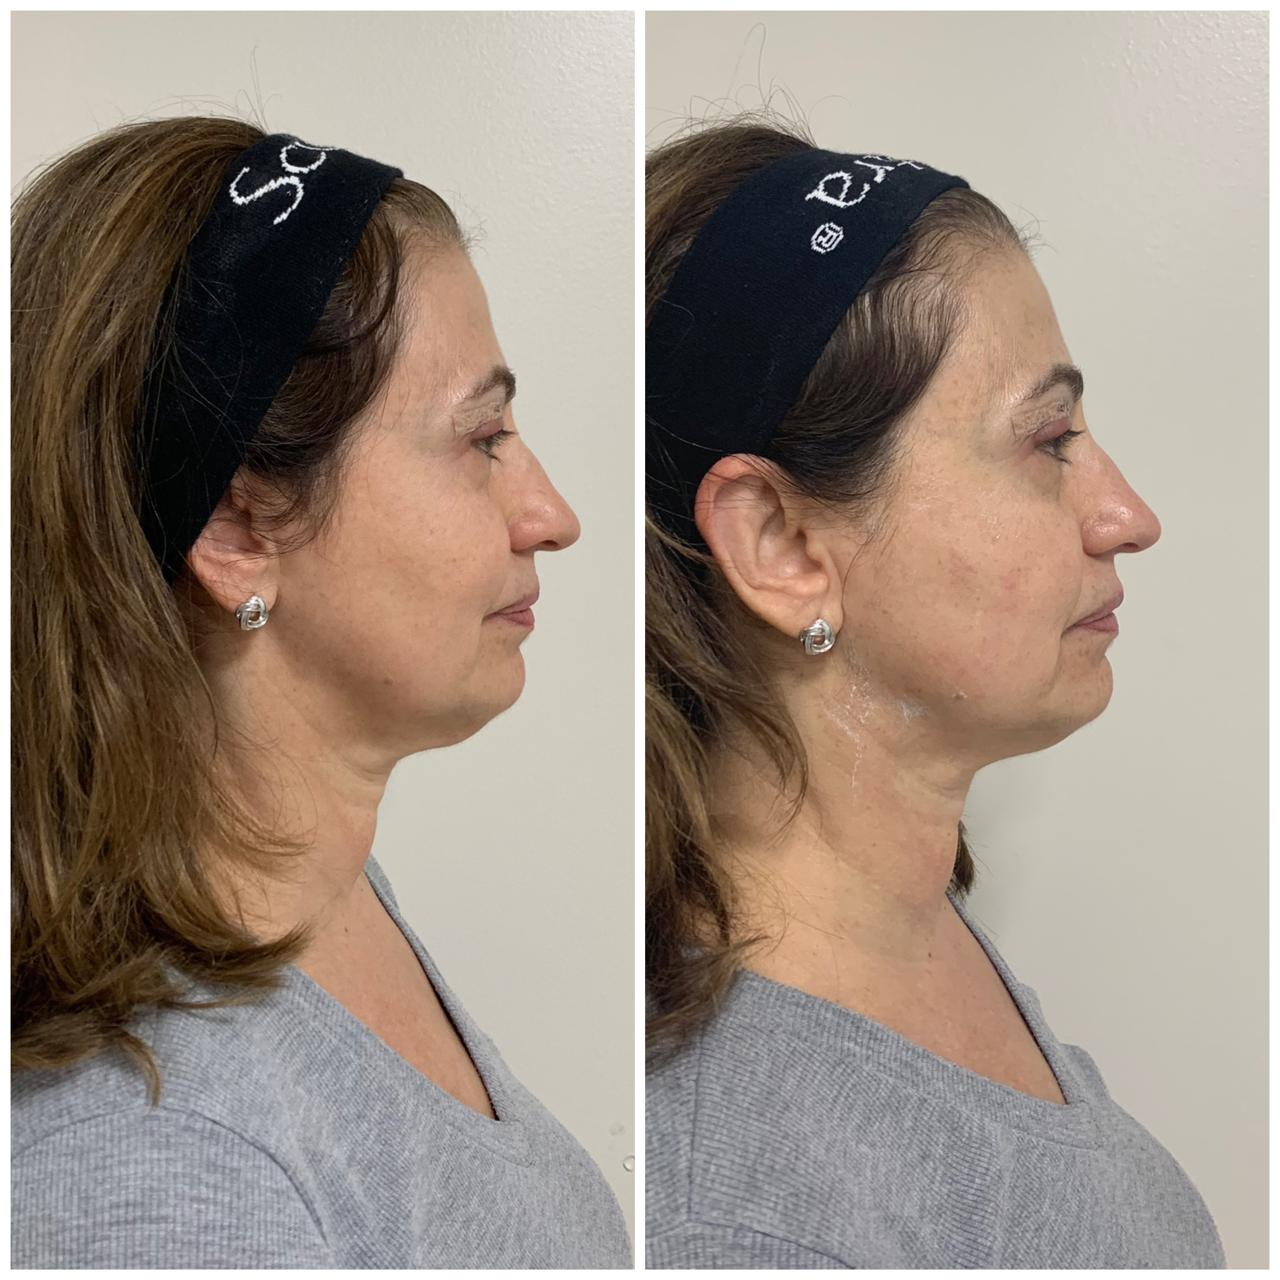
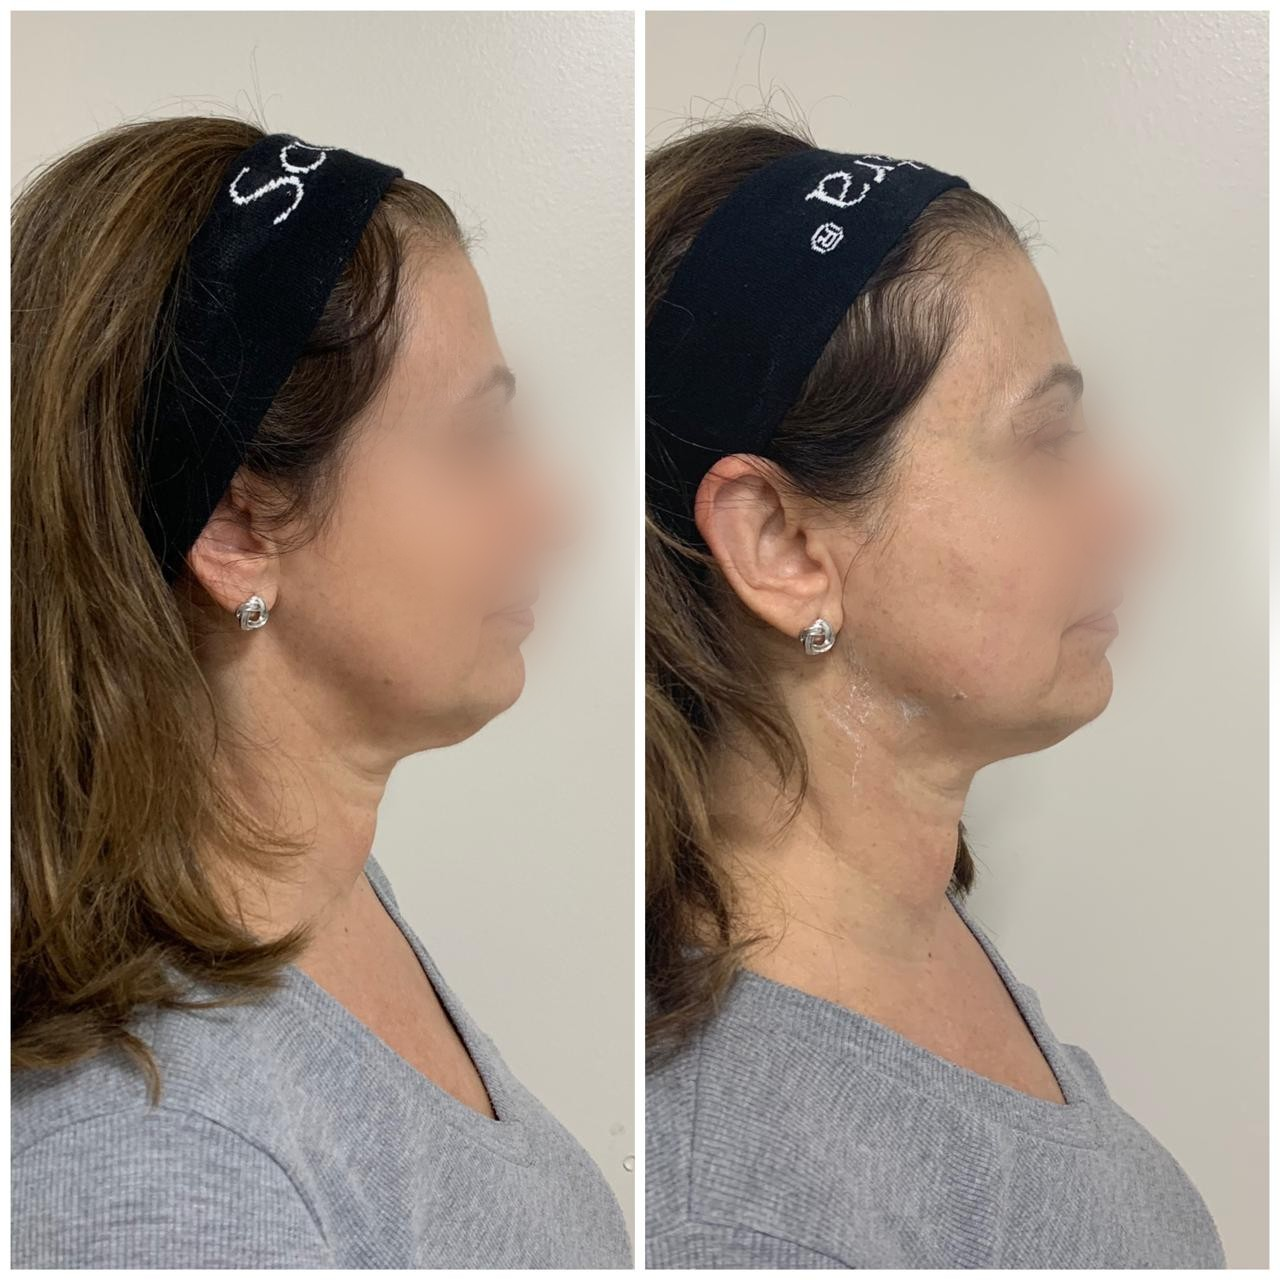
Correct technical claims and blur patient face in before/after photo
Per the doctor's review: drop the claims equating Ultraformer MPT
tensioning/results to surgical lifting, clarify that microfocado (HIFU)
reaches the SMAS and multiple dermal layers, and that macrofocado targets
localized fat and is mainly used for body treatments. Also blur the
patient's face in the before/after photo for privacy while keeping the
jawline/neck contour sharp so the result stays visible.

diff --git a/index.html b/index.html
@@ -176,9 +176,8 @@
         <p class="section-sub">
           Enquanto os tratamentos convencionais trabalham apenas na superfície, o
           Ultraformer MPT age nas camadas mais profundas da pele, exatamente onde
-          o envelhecimento começa. É o mesmo nível de tensionamento que antes só
-          era possível com procedimentos cirúrgicos — agora, sem bisturi, sem
-          corte e sem afastamento da sua rotina.
+          o envelhecimento começa, estimulando um tensionamento progressivo —
+          sem bisturi, sem corte e sem afastamento da sua rotina.
         </p>
       </div>
 
@@ -197,14 +196,15 @@
         <article class="service-card">
           <svg class="service-icon" viewBox="0 0 24 24" fill="none" stroke="currentColor" stroke-width="1.5" stroke-linecap="round" stroke-linejoin="round"><path d="M3 7.5 12 3l9 4.5-9 4.5-9-4.5Z"/><path d="M3 12l9 4.5 9-4.5"/><path d="M3 16.5 12 21l9-4.5"/></svg>
           <h3>Microfocado (HIFU)</h3>
-          <p>Age nas camadas mais profundas da derme, estimulando a produção de
-          colágeno novo onde a flacidez começa.</p>
+          <p>Chega até o SMAS (membrana que envolve a musculatura do rosto), além
+          de atuar em várias camadas da derme, estimulando a produção de colágeno
+          novo onde a flacidez começa.</p>
         </article>
         <article class="service-card">
           <svg class="service-icon" viewBox="0 0 24 24" fill="none" stroke="currentColor" stroke-width="1.5" stroke-linecap="round" stroke-linejoin="round"><circle cx="12" cy="12" r="8.5"/><circle cx="12" cy="12" r="4"/></svg>
           <h3>Macrofocado</h3>
-          <p>Trabalha no tecido adiposo superficial, remodelando o contorno facial
-          de forma gradual e natural.</p>
+          <p>Atua na gordura localizada — por isso é mais utilizado em tratamentos
+          corporais, ajudando na redução de medidas e definição de contorno.</p>
         </article>
         <article class="service-card">
           <svg class="service-icon" viewBox="0 0 24 24" fill="none" stroke="currentColor" stroke-width="1.5" stroke-linecap="round" stroke-linejoin="round"><path d="M4 15.5c1.7-6 6.3-10 10.5-10"/><path d="M14 3.5l3.5 2-1.3 4"/></svg>
@@ -228,8 +228,8 @@
         <article class="service-card">
           <svg class="service-icon" viewBox="0 0 24 24" fill="none" stroke="currentColor" stroke-width="1.5" stroke-linecap="round" stroke-linejoin="round"><path d="M4 16.5c3-7.5 9.5-11.5 15-9.5"/><path d="M15.5 4.5l3.5 2.5-2.5 3.5"/></svg>
           <h3>Firmeza real sem cirurgia</h3>
-          <p>Tensionamento das estruturas profundas do rosto, o mesmo efeito do
-          lifting, sem nenhuma incisão.</p>
+          <p>Tensionamento das estruturas profundas do rosto, sem cortes, pontos
+          ou anestesia.</p>
         </article>
         <article class="service-card">
           <svg class="service-icon" viewBox="0 0 24 24" fill="none" stroke="currentColor" stroke-width="1.5" stroke-linecap="round" stroke-linejoin="round"><rect x="3.5" y="5" width="17" height="15" rx="2.5"/><path d="M3.5 9.5h17"/><path d="M8 3v4M16 3v4"/><path d="M8.5 14.3l2 2 4.5-4.5"/></svg>
